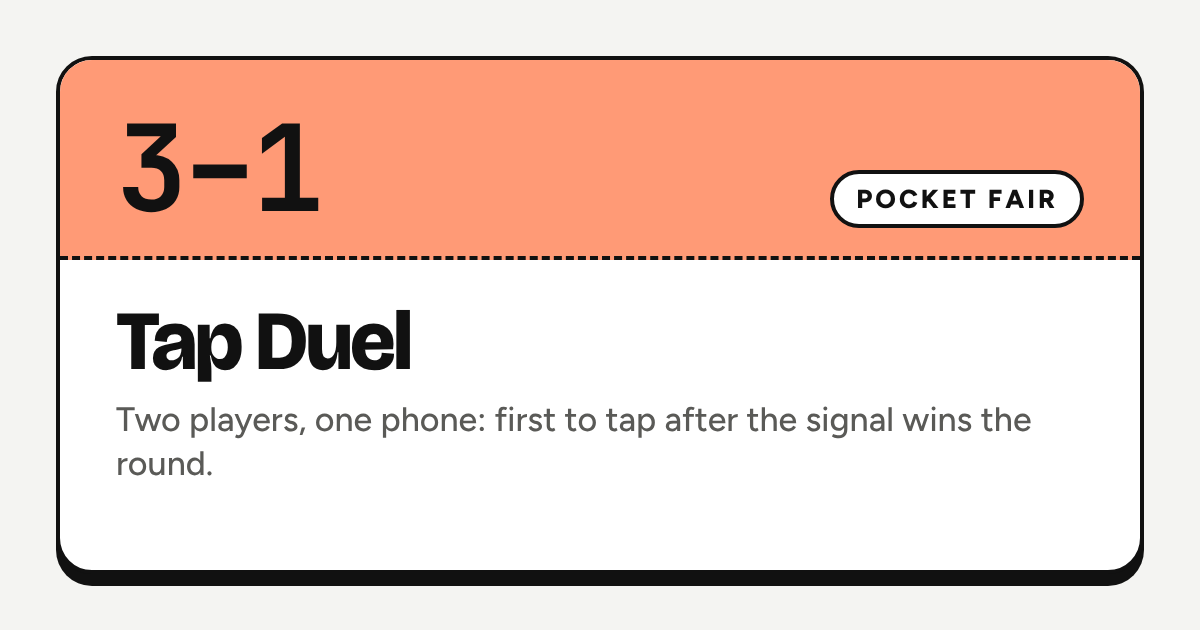
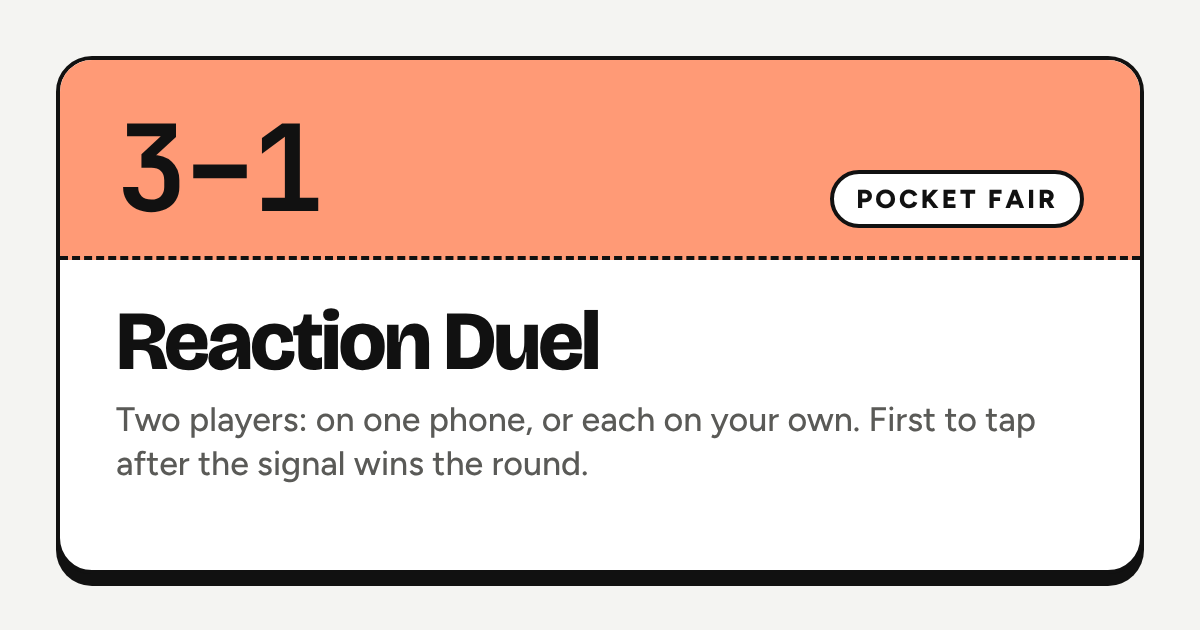
Pitch Match plays with the sound off; Tug of Taps needs alternating thumbs
- Pitch Match: the tone drawn as a wave (the target while it plays, then
  yours); e2e plays a round by sight alone and gets 'Spot on'
- Tug of Taps: a tap pulls only on the other side from your last one; two
  thumb pads show which is next; keys A/S and K/L. Unit test: mashing ten
  times pulls once, alternating pulls ten. SplitStage reports which side of
  a half was tapped.
- Preview images refreshed (Reaction Duel)

Claude-Session: https://claude.ai/code/session_01A8wDUuUBBCBqe3SjQ7BCez

Changed region(s): [[0.0925, 0.4825, 0.5242, 0.6032], [0.2467, 0.6333, 0.8633, 0.6937], [0.0925, 0.7238, 0.4933, 0.754]]

diff --git a/src/games/pitch-match.tsx b/src/games/pitch-match.tsx
@@ -1,4 +1,4 @@
-import { useRef, useState } from 'react'
+import { useEffect, useRef, useState } from 'react'
 import { getGame } from './registry'
 import { readChallenge } from '../shell/challenge'
 import { dailyDayFor, dailyRandom, dateKey, puzzleLabel } from '../shell/daily'
@@ -38,11 +38,64 @@ export function targetsFor(d = new Date()): number[] {
 // Sound is the game here, so tones play even when the site's sound switch is off.
 const play = (hz: number, ms = 700) => tone(hz, ms, { force: true, volume: 0.22 })
 
-/** One round: listen, slide, lock in. */
+/** Waves across the strip for a frequency: twice the pitch, twice the waves (5 at 200 Hz, 25 at 1000 Hz). */
+export const cyclesFor = (hz: number) => hz / 40
+const TARGET_SHOW_MS = 900
+
+/**
+ * The tone as a picture, so the game works with the sound off too: the target's wave shows while it
+ * plays, then the wave follows your slider. Compare how tightly packed the waves are.
+ */
+function Wave({ hz, showing }: { hz: number | null; showing: 'target' | 'mine' | null }) {
+  const canvas = useRef<HTMLCanvasElement>(null)
+  useEffect(() => {
+    const c = canvas.current
+    if (!c) return
+    const dpr = Math.min(window.devicePixelRatio || 1, 3)
+    const w = c.clientWidth, h = c.clientHeight
+    c.width = Math.round(w * dpr); c.height = Math.round(h * dpr)
+    const g = c.getContext('2d')!
+    g.scale(dpr, dpr)
+    g.clearRect(0, 0, w, h)
+    const st = getComputedStyle(c)
+    g.strokeStyle = st.getPropertyValue('--line').trim() || '#ccc'
+    g.lineWidth = 1
+    g.beginPath(); g.moveTo(0, h / 2); g.lineTo(w, h / 2); g.stroke()
+    if (hz == null || !showing) return
+    g.strokeStyle = showing === 'target' ? st.getPropertyValue('--ink').trim() || '#111' : st.getPropertyValue('--game').trim() || '#f8c'
+    g.lineWidth = showing === 'target' ? 3 : 3.5
+    g.lineJoin = 'round'
+    const k = cyclesFor(hz)
+    g.beginPath()
+    for (let x = 0; x <= w; x += 1) {
+      const y = h / 2 - Math.sin((x / w) * k * Math.PI * 2) * (h * 0.36)
+      if (x) g.lineTo(x, y); else g.moveTo(x, y)
+    }
+    g.stroke()
+  }, [hz, showing])
+  return (
+    <div className="pitch-wave">
+      <canvas ref={canvas} aria-hidden="true" data-showing={showing ?? ''} data-cycles={hz == null ? '' : cyclesFor(hz).toFixed(2)} />
+      <span className="small muted">{showing === 'target' ? 'The target' : showing === 'mine' ? 'Your tone' : 'Listen or look: the wave shows the tone'}</span>
+    </div>
+  )
+}
+
+/** One round: listen (or watch the wave), slide, lock in. */
 function Round({ target, label, tiles, onLock }: { target: number; label: string; tiles?: Attempt[]; onLock: (cents: number) => void }) {
   const [slider, setSlider] = useState(randomSlider)
   const [heard, setHeard] = useState(false)
+  const [showTarget, setShowTarget] = useState(false)
+  const targetTimer = useRef<ReturnType<typeof setTimeout>>(undefined)
+  useEffect(() => () => clearTimeout(targetTimer.current), [])
   const lastPlay = useRef(0)
+  function playTarget() {
+    play(target)
+    setHeard(true)
+    setShowTarget(true)
+    clearTimeout(targetTimer.current)
+    targetTimer.current = setTimeout(() => setShowTarget(false), TARGET_SHOW_MS)
+  }
 
   function playMine() {
     const now = performance.now()
@@ -58,9 +111,10 @@ function Round({ target, label, tiles, onLock }: { target: number; label: string
           <span className="small muted">{label}</span>
           {tiles && <AttemptTiles attempts={tiles} />}
         </div>
-        <Button size="lg" block color={game.color} onClick={() => { play(target); setHeard(true) }} data-primary={heard ? undefined : 'click'} hint={heard ? undefined : 'Space'}>
+        <Button size="lg" block color={game.color} onClick={playTarget} data-primary={heard ? undefined : 'click'} hint={heard ? undefined : 'Space'}>
           {heard ? 'Hear it again' : 'Listen to the target'}
         </Button>
+        <Wave hz={showTarget ? target : heard ? toHz(slider) : null} showing={showTarget ? 'target' : heard ? 'mine' : null} />
         <label className="eyebrow muted" htmlFor="pitch">Your tone: lower ← → higher</label>
         <input
           id="pitch"
@@ -91,7 +145,7 @@ function Round({ target, label, tiles, onLock }: { target: number; label: string
             Lock in
           </Button>
         </div>
-        {!heard && <p className="small muted" style={{ margin: 0 }}>Turn your phone's sound up, then listen first.</p>}
+        {!heard && <p className="small muted" style={{ margin: 0 }}>Turn your sound up and listen, or keep it off and watch the wave: the more tightly packed, the higher the tone.</p>}
       </div>
     </Stage>
   )

diff --git a/src/games/tug-of-taps.tsx b/src/games/tug-of-taps.tsx
@@ -1,13 +1,15 @@
 import { useEffect, useRef, useState } from 'react'
 import { getGame } from './registry'
-import { pull, tugWinner, WIN_STEPS } from './tug-rules'
+import { counts, pull, tugWinner, WIN_STEPS, type Side } from './tug-rules'
 import { newSeed } from '../shell/challenge'
 import { feel } from '../shell/feel'
+import { count as plural } from '../shell/plural'
 import { ResultCard } from '../shell/ResultCard'
 import { Button, PLAYERS, SplitStage } from '../ui'
 
 const game = getGame('tug-of-taps')
-const KEYS = ['a', 'l']
+/** Two keys each, to alternate like two thumbs: A/S for one player, K/L for the other. */
+const KEYS = [['a', 's'], ['k', 'l']]
 type Phase = 'ready' | 'count' | 'pull' | 'done'
 
 export default function TugOfTaps() {
@@ -19,6 +21,9 @@ export default function TugOfTaps() {
   const goAt = useRef(0)
   const [ms, setMs] = useState(0)
   const posRef = useRef(0)
+  // Each player's last side, and which side they should tap next (for the hint).
+  const lastSide = useRef<(Side | null)[]>([null, null])
+  const [next, setNext] = useState<(Side | null)[]>([null, null])
   const phaseRef = useRef(phase)
   phaseRef.current = phase
   const timers = useRef<ReturnType<typeof setTimeout>[]>([])
@@ -27,6 +32,8 @@ export default function TugOfTaps() {
   function start() {
     document.querySelector('.qg-split')?.scrollIntoView({ block: 'center', behavior: matchMedia('(prefers-reduced-motion: reduce)').matches ? 'auto' : 'smooth' })
     posRef.current = 0
+    lastSide.current = [null, null]
+    setNext([null, null])
     setPos(0)
     setTaps([0, 0])
     setCount(3)
@@ -35,8 +42,11 @@ export default function TugOfTaps() {
     timers.current.push(setTimeout(() => { goAt.current = performance.now(); setPhase('pull'); feel.good() }, 2100))
   }
 
-  function press(player: number) {
+  function press(player: number, side: Side) {
     if (phaseRef.current !== 'pull') return // taps before Go don't count
+    if (!counts(lastSide.current[player], side)) { feel.light(); return } // same thumb again: no pull
+    lastSide.current[player] = side
+    setNext((n) => n.map((x, i) => (i === player ? (side === 'left' ? 'right' : 'left') : x)))
     posRef.current = pull(posRef.current, player)
     setPos(posRef.current)
     setTaps((t) => t.map((x, i) => (i === player ? x + 1 : x)))
@@ -50,8 +60,9 @@ export default function TugOfTaps() {
 
   useEffect(() => {
     function onKey(e: KeyboardEvent) {
-      const i = KEYS.indexOf(e.key.toLowerCase())
-      if (i >= 0 && !e.repeat) press(i)
+      const k = e.key.toLowerCase()
+      const i = KEYS.findIndex((pair) => pair.includes(k))
+      if (i >= 0 && !e.repeat) press(i, KEYS[i][0] === k ? 'left' : 'right')
     }
     window.addEventListener('keydown', onKey)
     return () => window.removeEventListener('keydown', onKey)
@@ -74,8 +85,12 @@ export default function TugOfTaps() {
           <span className="tug-marker" style={{ left: `${towardMe(i)}%` }} />
           <span className="tug-line tug-line--me" />
         </div>
-        <span className="small">{phase === 'ready' ? 'Tap as fast as you can after Go' : `${taps[i]} taps`}</span>
-        <kbd className="qg-kbd" aria-hidden="true">{KEYS[i].toUpperCase()}</kbd>
+        <span className="tug-pads" aria-hidden="true">
+          <span className="tug-pad" data-next={next[i] === 'left' || undefined}>L</span>
+          <span className="tug-pad" data-next={next[i] === 'right' || undefined}>R</span>
+        </span>
+        <span className="small">{phase === 'ready' ? 'After Go, tap left, right, left… with two thumbs' : plural(taps[i], 'pull')}</span>
+        <kbd className="qg-kbd" aria-hidden="true">{KEYS[i].join(' ').toUpperCase()}</kbd>
       </>
     ),
   })

diff --git a/src/games/howto.ts b/src/games/howto.ts
@@ -19,7 +19,7 @@ export const HOW_TO: Record<string, string[]> = {
     'One wrong tap ends the game. Your score is the longest path you repeated. Turn sound on to hear a note for each square.',
   ],
   'pitch-match': [
-    'Press Listen to hear the target tone. Move the slider, play your tone, and press Lock in when they sound the same. You need your phone\'s sound on.',
+    'Press Listen to hear the target tone. Move the slider, play your tone, and press Lock in when they sound the same. Sound on is best; with it off, watch the wave instead: it shows the target while it plays, then your tone, and the higher the tone, the more tightly packed the waves.',
     'There are three tones a day, the same for everyone. Being one semitone off (one piano key) scores 50%; matching exactly scores 100%. Try as many times as you like; your best try counts and the share says how many it took.',
   ],
   'tap-duel': [
@@ -35,8 +35,8 @@ export const HOW_TO: Record<string, string[]> = {
     'There are five fields a day, from about a dozen dots to three hundred, the same for everyone. Your result is your average error: how far your guesses were from the real counts, as a percentage (guessing 30 for 20 dots is 50% off). Try as many times as you like; your best try counts. Each try of the day gets its own five fields (the same for everyone), so the counts you see after one try never help the next.',
   ],
   'tug-of-taps': [
-    'Put the phone between you; each player gets one half of the screen. After a 3-2-1 countdown, tap your own half as fast as you can. Every tap pulls the rope one step toward you.',
-    'The first player to pull the rope 20 steps to their side wins. Taps before Go don’t count, and both players can tap at the same time. On a computer, use the A and L keys.',
+    'Put the phone between you; each player gets one half of the screen. After a 3-2-1 countdown, tap your half with two thumbs, left side then right side, as fast as you can. Every alternating tap pulls the rope one step toward you; tapping the same side twice does nothing.',
+    'The first player to pull the rope 20 steps to their side wins. Taps before Go don’t count, and both players can tap at the same time. On a computer, one player alternates A and S, the other K and L.',
   ],
   'angle-eye': [
     'Each round asks for one thing by eye: make an angle of a given size, mark the exact middle of a line, extend a line to twice its length, or mark the centre of a circle. Drag the handle (or use the arrow keys) and lock in.',

diff --git a/src/ui/components.tsx b/src/ui/components.tsx
@@ -424,8 +424,8 @@ export function PlayerChip({ player, name, detail }: PlayerChipProps) {
 export type SplitStageProps = {
   /** One entry per player (2 or 3). The first half faces the far side of the phone when there are two. */
   halves: { content: ReactNode; color?: string; label: string }[]
-  /** Called on pointer down in a half (each finger counts separately). */
-  onPress: (half: number) => void
+  /** Called on pointer down in a half (each finger counts separately), with which side of that half was hit. */
+  onPress: (half: number, side: 'left' | 'right') => void
   className?: string
 }
 export function SplitStage({ halves, onPress, className }: SplitStageProps) {
@@ -441,7 +441,8 @@ export function SplitStage({ halves, onPress, className }: SplitStageProps) {
           style={fill(h.color ?? PLAYERS[i].color)}
           onPointerDown={(e) => {
             e.preventDefault()
-            onPress(i)
+            const r = e.currentTarget.getBoundingClientRect()
+            onPress(i, e.clientX < r.left + r.width / 2 ? 'left' : 'right')
           }}
         >
           {h.content}

diff --git a/src/shell/site.css b/src/shell/site.css
@@ -740,3 +740,13 @@ button { font: inherit; }
 .duel-modes { display: flex; justify-content: center; margin-bottom: var(--space-4); }
 /* Guess the Crowd's bonus round sits under the main result. */
 .tot-bonus { margin-top: var(--space-4); }
+
+/* Pitch Match: the tone drawn as a wave, for playing with the sound off. */
+.pitch-wave { display: grid; gap: 4px; justify-items: center; }
+.pitch-wave canvas { display: block; width: 100%; height: 72px; border-radius: var(--radius-md); background: var(--surface-sunken); }
+
+/* Tug of Taps: two thumb pads per player; the one to tap next lights up. */
+.tug-pads { display: flex; gap: var(--space-6); }
+.tug-pad { display: grid; place-items: center; width: 44px; height: 44px; border-radius: 50%; border: 2.5px solid var(--on-fill); font: 800 14px/1 var(--font-body); color: var(--on-fill); opacity: .45; transition: opacity 80ms, transform 80ms; }
+.tug-pad[data-next] { opacity: 1; transform: scale(1.12); background: color-mix(in srgb, var(--on-fill) 14%, transparent); }
+@media (prefers-reduced-motion: reduce) { .tug-pad { transition: none; } }

diff --git a/src/games/tug-rules.test.ts b/src/games/tug-rules.test.ts
@@ -1,5 +1,5 @@
 import { describe, expect, it } from 'vitest'
-import { pull, tugWinner, WIN_STEPS } from './tug-rules'
+import { counts, pull, tugWinner, WIN_STEPS } from './tug-rules'
 
 describe('tug rules', () => {
   it('each tap moves the rope one step toward the tapper', () => {
@@ -10,5 +10,16 @@ describe('tug rules', () => {
     expect(tugWinner(WIN_STEPS - 1)).toBeNull()
     expect(tugWinner(WIN_STEPS)).toBe(1)
     expect(tugWinner(-WIN_STEPS)).toBe(0)
+  })
+  it('only pulls when thumbs alternate', () => {
+    expect(counts(null, 'left')).toBe(true)
+    expect(counts('left', 'right')).toBe(true)
+    expect(counts('right', 'right')).toBe(false)
+    // Mashing one side ten times pulls once; alternating ten times pulls ten.
+    let last: 'left' | 'right' | null = null, mash = 0, alt = 0
+    for (let i = 0; i < 10; i++) { if (counts(last, 'left')) mash++; last = 'left' }
+    last = null
+    for (let i = 0; i < 10; i++) { const s = i % 2 ? 'right' : 'left'; if (counts(last, s)) alt++; last = s }
+    expect([mash, alt]).toEqual([1, 10])
   })
 })

diff --git a/src/games/tug-rules.ts b/src/games/tug-rules.ts
@@ -11,3 +11,12 @@ export function tugWinner(pos: number): number | null {
   if (pos >= WIN_STEPS) return 1
   return null
 }
+
+export type Side = 'left' | 'right'
+/**
+ * Thumbs have to alternate: a tap pulls only if it is on the other side from that player's last
+ * tap (the first tap always counts). Mashing one spot does nothing.
+ */
+export function counts(last: Side | null, side: Side): boolean {
+  return last !== side
+}
